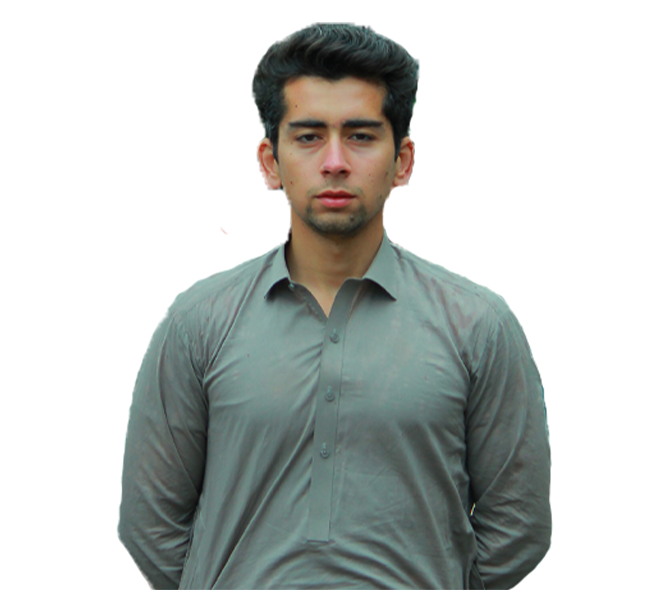
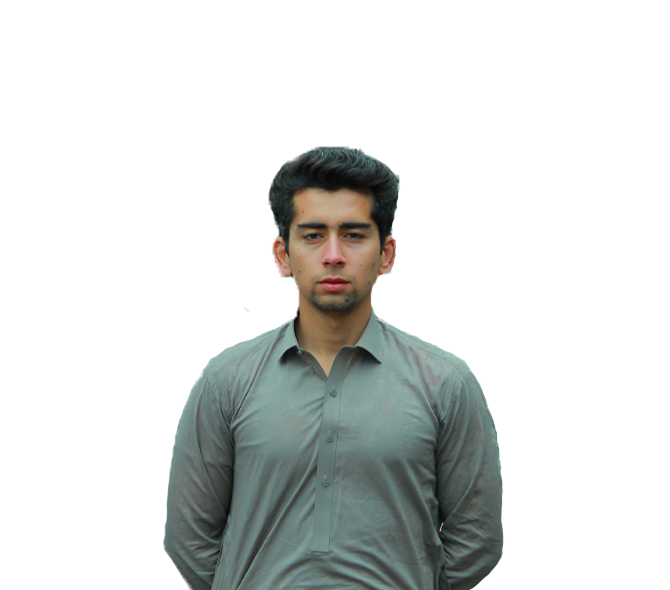
ain

diff --git a/src/components/Parallax/Parallax.jsx b/src/components/Parallax/Parallax.jsx
@@ -28,7 +28,10 @@ const Parallax = ({ type }) => {
       }}
     >
       <motion.h1
-        style={{ y: yText }}
+        style={{
+           y: yText,
+           zIndex:5,          
+          }}
         className="text-white text-5xl md:text-7xl font-bold text-center relative"
       >
         {type === 'services' ? 'What I Do' : 'What I Did?'}
@@ -37,9 +40,9 @@ const Parallax = ({ type }) => {
         className="mountains bg-contain md:bg-cover "
         style={{
           backgroundImage: `url(${mountains})`,
-          backgroundPosition: 'bottom', // Aligns the image to the bottom
+          backgroundPosition: 'bottom', 
           width: '100%',
-          height: '100%', // Full height
+          height: '100%', 
           position: 'absolute',
           backgroundRepeat:'no-repeat',
           zIndex: 3,
@@ -50,10 +53,10 @@ const Parallax = ({ type }) => {
         style={{
           y: yBg,
           backgroundImage: `url(${type === 'services' ? planets : sun})`,
-          backgroundSize: 'contain', // Change to 'contain'
-          backgroundPosition: 'center', // Center the image
+          backgroundSize: 'contain', 
+          backgroundPosition: 'center', 
           width: '100%',
-          height: '100%', // Full height
+          height: '100%', 
           backgroundRepeat:'no-repeat',
           position: 'absolute',
           zIndex: 2,

diff --git a/src/components/Hero/Hero.jsx b/src/components/Hero/Hero.jsx
@@ -84,9 +84,10 @@ const Hero = () => {
         </motion.div>
         
              
-        <div className="imageContainer absolute object-cover top-56 md:top-0  right-0 z-10  ">
-        <img src={copy} alt="" />
+        <div className="imageContainer absolute top-3/4 left-1/2 transform -translate-x-1/2 -translate-y-1/2 md:top-0 md:right-0 md:translate-x-0 md:translate-y-0 z-10 size-[40rem]">
+            <img src={copy} alt="" />
         </div>
+
         
         
 
